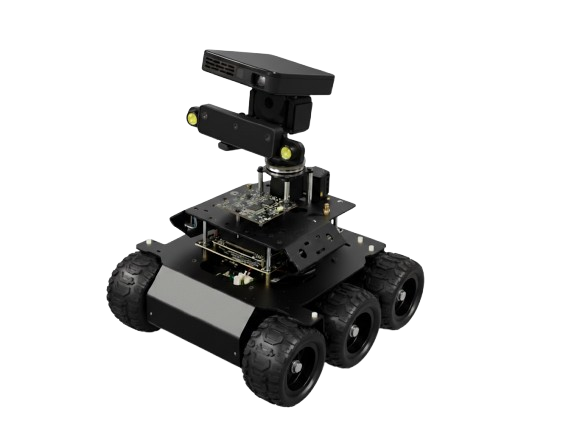
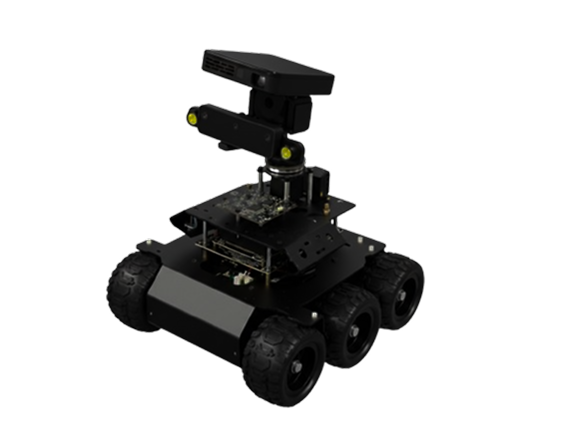
Enhance HomeScreen: replace robot card with image, update styles, and improve layout

diff --git a/app/(tabs)/home.tsx b/app/(tabs)/home.tsx
@@ -1,6 +1,7 @@
 import React from 'react';
 import { Pressable, ScrollView, StyleSheet, View } from 'react-native';
 import { SafeAreaView } from 'react-native-safe-area-context';
+import { Image } from 'expo-image';
 
 import { ThemedText } from '@/components/themed-text';
 import { ThemedView } from '@/components/themed-view';
@@ -76,45 +77,32 @@ export default function HomeScreen() {
       icon: 'antenna.radiowaves.left.and.right' as const,
       iconColor: '#60A5FA',
     },
-    {
-      id: 'mode',
-      label: 'Mode',
-      value: isAgentic ? 'Agentic' : 'Manual',
-      caption: isAgentic ? 'Autonomy engaged' : 'Awaiting commands',
-      icon: isAgentic ? ('sparkles' as const) : ('bolt.fill' as const),
-      iconColor: '#F472B6',
-    },
   ];
 
   return (
-    <SafeAreaView style={styles.safeArea} edges={['top', 'bottom']}>
+    <SafeAreaView style={styles.safeArea} edges={['top']}>
       <ThemedView style={styles.screen}>
         <ScrollView contentContainerStyle={styles.content} showsVerticalScrollIndicator={false}>
           <View style={styles.headerRow}>
             <View>
-              <ThemedText type="subtitle" style={styles.missionLabel}>
+              <ThemedText type="title" style={styles.missionLabel}>
                 Mars
               </ThemedText>
-              <ThemedText style={styles.missionSubtitle}>Expedition Rover</ThemedText>
+              <View style={styles.headerStatus}>
+                <IconSymbol name="battery.75" color="#34D399" size={20} />
+                <ThemedText style={styles.headerStatusText}>{batteryLabel}</ThemedText>
+                <View style={styles.headerDot} />
+                <ThemedText style={styles.headerStatusMeta}>{healthLabel}</ThemedText>
+              </View>
             </View>
-            <View style={styles.headerStatus}>
-              <IconSymbol name="battery.75" color="#34D399" size={20} />
-              <ThemedText style={styles.headerStatusText}>{batteryLabel}</ThemedText>
-              <View style={styles.headerDot} />
-              <ThemedText style={styles.headerStatusMeta}>{healthLabel}</ThemedText>
-            </View>
+
           </View>
 
-          <View style={styles.robotCard}>
-            <View style={styles.robotGlow} />
-            <View style={styles.robotBody}>
-              <IconSymbol name="car.fill" color="#F4F4F5" size={52} />
-            </View>
-            <View style={styles.robotCopy}>
-              <ThemedText style={styles.robotTitle}>Mission ready</ThemedText>
-              <ThemedText style={styles.robotCaption}>All systems nominal</ThemedText>
-            </View>
-          </View>
+          <Image
+            source={require('@/assets/images/rovy.png')}
+            style={styles.robotImage}
+            contentFit="cover"
+          />
 
           <View style={styles.statGrid}>
             {stats.map((stat) => (
@@ -227,10 +215,7 @@ const styles = StyleSheet.create({
     flexDirection: 'row',
     alignItems: 'center',
     gap: 8,
-    backgroundColor: '#111827',
-    borderRadius: 999,
     paddingVertical: 6,
-    paddingHorizontal: 16,
   },
   headerStatusText: {
     fontFamily: 'JetBrainsMono_600SemiBold',
@@ -243,49 +228,11 @@ const styles = StyleSheet.create({
   headerDot: {
     width: 4,
     height: 4,
-    borderRadius: 2,
     backgroundColor: '#374151',
   },
-  robotCard: {
-    backgroundColor: '#0B0B0B',
-    borderRadius: 28,
-    padding: 24,
-    overflow: 'hidden',
-    borderWidth: 1,
-    borderColor: '#1F2937',
-  },
-  robotGlow: {
-    position: 'absolute',
-    top: -30,
-    right: -30,
-    width: 160,
-    height: 160,
-    borderRadius: 80,
-    backgroundColor: 'rgba(59, 130, 246, 0.25)',
-    shadowColor: '#60A5FA',
-    shadowOffset: { width: 0, height: 0 },
-    shadowOpacity: 0.5,
-    shadowRadius: 40,
-  },
-  robotBody: {
-    width: 120,
-    height: 120,
-    borderRadius: 30,
-    backgroundColor: '#111827',
-    alignItems: 'center',
-    justifyContent: 'center',
-    marginBottom: 16,
-  },
-  robotCopy: {
-    gap: 4,
-  },
-  robotTitle: {
-    fontFamily: 'JetBrainsMono_600SemiBold',
-    fontSize: 18,
-    color: '#F9FAFB',
-  },
-  robotCaption: {
-    color: '#9CA3AF',
+  robotImage: {
+    width: '100%',
+    aspectRatio: 4 / 3,
   },
   statGrid: {
     flexDirection: 'row',
@@ -293,8 +240,7 @@ const styles = StyleSheet.create({
   },
   statCard: {
     flex: 1,
-    borderRadius: 20,
-    backgroundColor: '#0B0F19',
+    backgroundColor: '#0F0F10',
     padding: 16,
     gap: 6,
     borderWidth: 1,
@@ -303,7 +249,6 @@ const styles = StyleSheet.create({
   statIconWrapper: {
     width: 32,
     height: 32,
-    borderRadius: 16,
     backgroundColor: '#111827',
     alignItems: 'center',
     justifyContent: 'center',
@@ -331,9 +276,8 @@ const styles = StyleSheet.create({
     alignItems: 'center',
     justifyContent: 'center',
     gap: 8,
-    borderRadius: 16,
     paddingVertical: 14,
-    backgroundColor: '#0B0F19',
+    backgroundColor: '#0F0F10',
     borderWidth: 1,
     borderColor: '#1F2937',
   },
@@ -363,8 +307,7 @@ const styles = StyleSheet.create({
     gap: 12,
   },
   behaviorCard: {
-    borderRadius: 20,
-    backgroundColor: '#0B0F19',
+    backgroundColor: '#0F0F10',
     padding: 16,
     borderWidth: 1,
     borderColor: '#111827',
@@ -388,7 +331,6 @@ const styles = StyleSheet.create({
   behaviorBadge: {
     paddingHorizontal: 10,
     paddingVertical: 4,
-    borderRadius: 999,
     backgroundColor: '#111827',
   },
   behaviorBadgeText: {
@@ -402,7 +344,6 @@ const styles = StyleSheet.create({
     gap: 4,
     paddingHorizontal: 10,
     paddingVertical: 4,
-    borderRadius: 999,
     backgroundColor: '#0F172A',
   },
   behaviorStatusText: {
